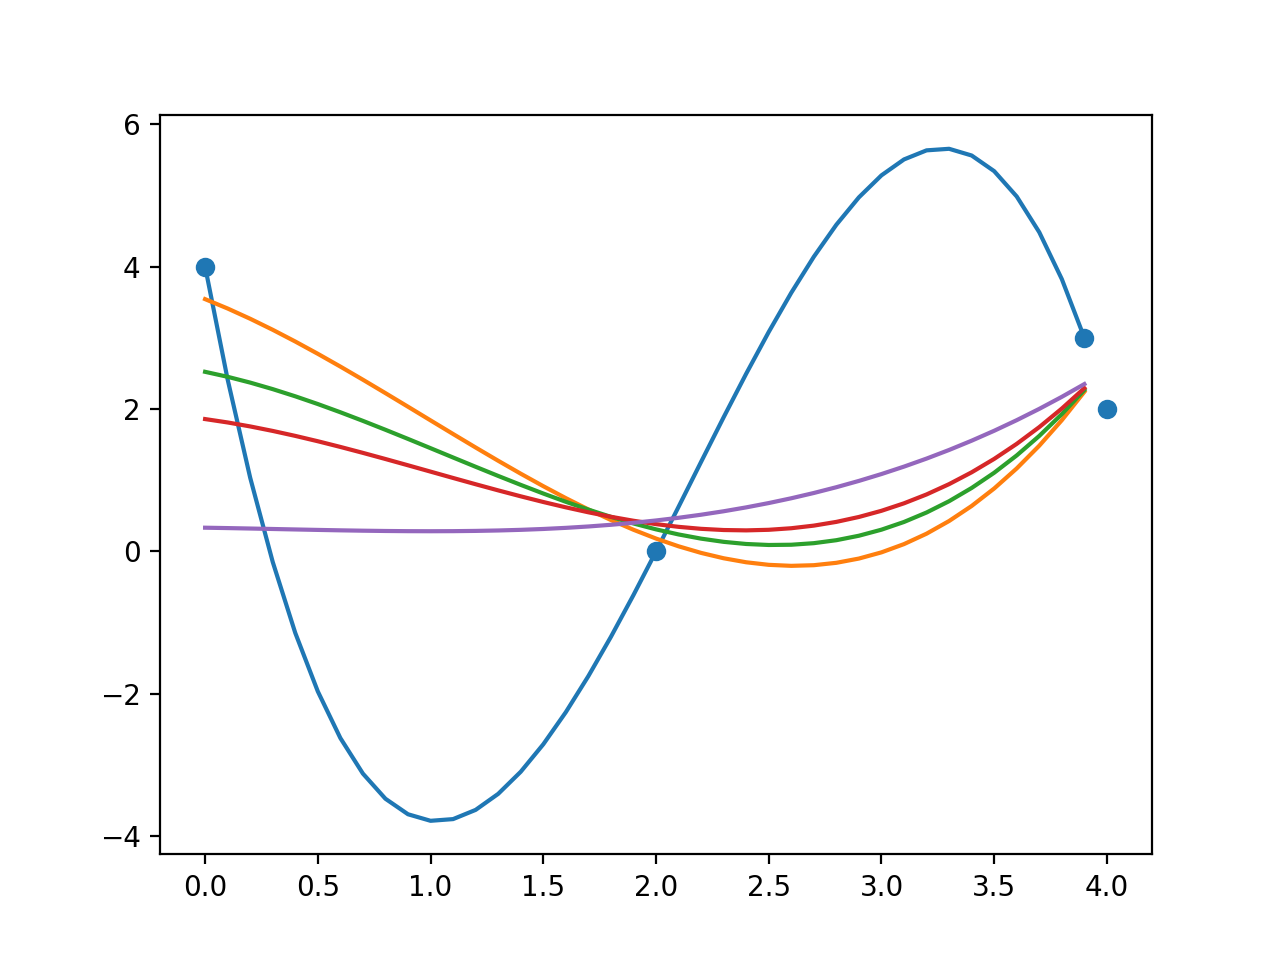
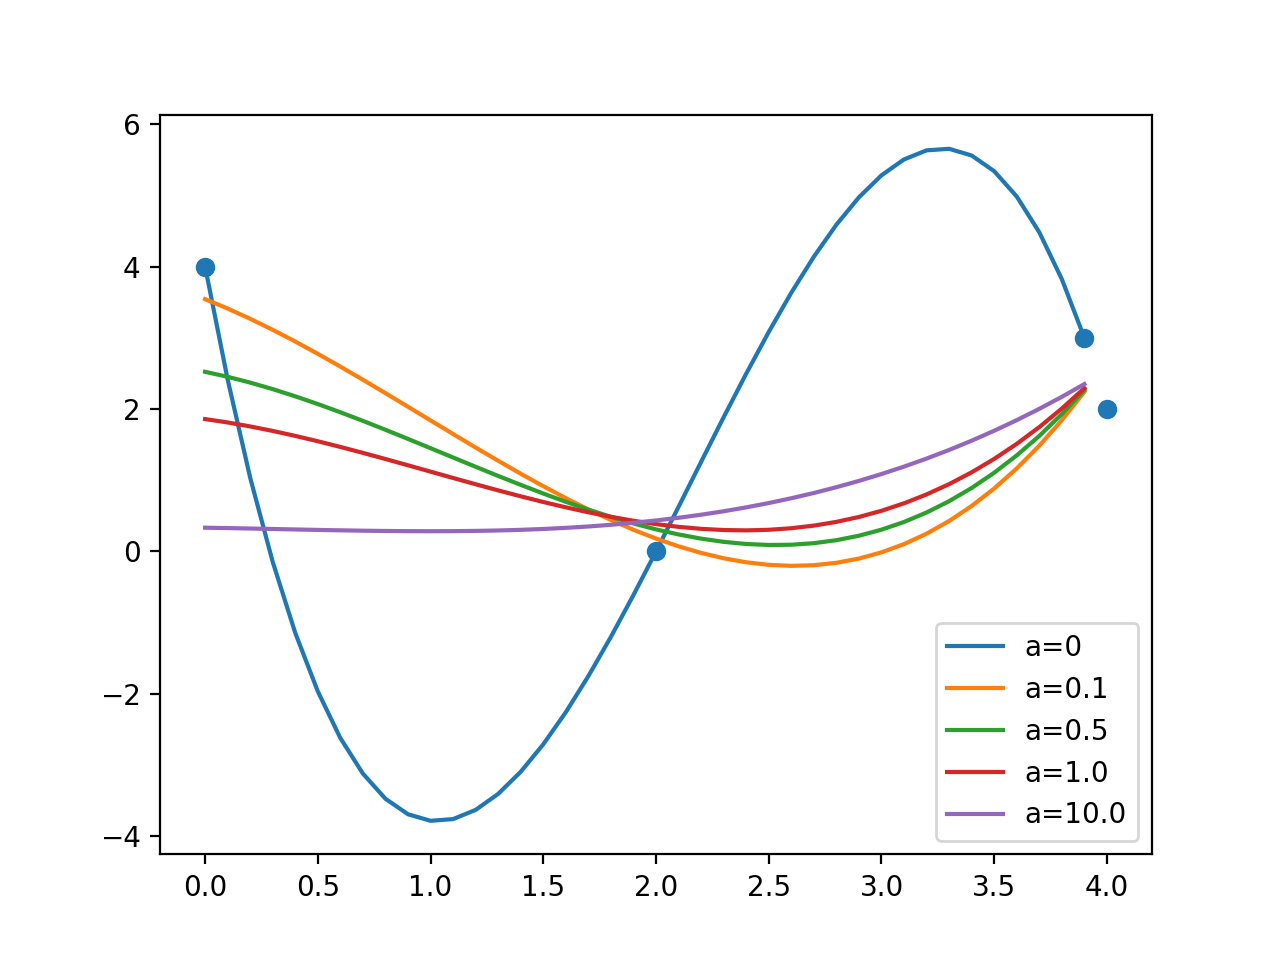
ラベルもある

Changed region(s): [[0.7188, 0.6562, 0.9062, 0.875]]

diff --git a/after.py b/after.py
@@ -5,48 +5,28 @@ import numpy as np
 
 import matplotlib.pyplot as plt
 
+alpha = [0,0.1,0.5,1.0,10.0]
+
 importlib.reload(regression)
 X,Y = datasets.load_nonlinear_example1()
 ex_X = datasets.polynomial3_features(X)
 
-model = regression.RidgeRegression(alpha=0)
+#model = regression.RidgeRegression(alpha=0)
 #model = regression.RidgeRegression()
-model.fit(ex_X,Y)
+#model.fit(ex_X,Y)
 
-print(model.theta)
-print(model.predict(ex_X))
-print(model.score(ex_X,Y))
-
-
+#print(model.theta)
+#print(model.predict(ex_X))
+#print(model.score(ex_X,Y))
 samples = np.arange(0,4,0.1)
-x_samples = np.c_[np.ones(len(samples)),samples]
-ex_x_samples = datasets.polynomial3_features(x_samples)
-
 
 plt.scatter(X[:,1],Y)
-plt.plot(samples,model.predict(ex_x_samples))
-
-model = regression.RidgeRegression(alpha=0.1)
-model.fit(ex_X,Y)
-x_samples = np.c_[np.ones(len(samples)),samples]
-ex_x_samples = datasets.polynomial3_features(x_samples)
-plt.plot(samples,model.predict(ex_x_samples))
-
-model = regression.RidgeRegression(alpha=0.5)
-model.fit(ex_X,Y)
-x_samples = np.c_[np.ones(len(samples)),samples]
-ex_x_samples = datasets.polynomial3_features(x_samples)
-plt.plot(samples,model.predict(ex_x_samples))
-
-model = regression.RidgeRegression(alpha=1)
-model.fit(ex_X,Y)
-x_samples = np.c_[np.ones(len(samples)),samples]
-ex_x_samples = datasets.polynomial3_features(x_samples)
-plt.plot(samples,model.predict(ex_x_samples))
-
-model = regression.RidgeRegression(alpha=10)
-model.fit(ex_X,Y)
-x_samples = np.c_[np.ones(len(samples)),samples]
-ex_x_samples = datasets.polynomial3_features(x_samples)
-plt.plot(samples,model.predict(ex_x_samples))
+for i in alpha:
+    model = regression.RidgeRegression(alpha=i)
+    model.fit(ex_X,Y)
+    x_samples = np.c_[np.ones(len(samples)),samples]
+    ex_x_samples = datasets.polynomial3_features(x_samples)
+    plt.plot(samples,model.predict(ex_x_samples),label="a="+str(i))
+    plt.legend(loc=0)
 plt.show()
+
